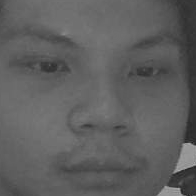
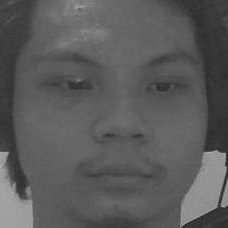
main part is done

diff --git a/demo/gui.py b/demo/gui.py
@@ -1,3 +1,4 @@
+from datetime import datetime
 from tkinter import *
 from tkinter import messagebox
 import mysql.connector
@@ -7,9 +8,16 @@ import threading
 import numpy as np
 import cv2 
 import sys
-import tkinter
 from PIL import Image,ImageTk
 import time
+import os
+import face_recognition
+import random
+import string
+import smtplib
+from email.mime.text import MIMEText
+from email.mime.multipart import MIMEMultipart
+
 
 mydb = mysql.connector.connect(
   host="localhost",
@@ -24,7 +32,8 @@ passwordE = ''
 teacher = ''
 temail = ''
 Class = ''
-
+todaydate = datetime.now().strftime('%d_%B_%Y') 
+ 
 
 def inputcheck():
 
@@ -50,8 +59,11 @@ def inputcheck():
         lock.release()
 
         
-
-
+def createdatabaseattendance():
+    try:
+        sql.execute(f"create table {todaydate}_{Class} (name varchar(30), time varchar(30), late boolean);")
+    except:
+        pass
 
 
 #taking data from database
@@ -110,6 +122,7 @@ def login():
     if alert == False:
         root2.destroy()
         t2.kill()
+        createdatabaseattendance()
         main()
 
     
@@ -182,10 +195,183 @@ def main():
     root.mainloop()
 
 
+
+def infoo():
+    messagebox.showinfo("Information", "Camera will close 5 seconds after it opens! Look onto the camera once its opened!")
+
+def resetvalue():
+    global name
+    messagebox.showinfo("Attendance Updated", "your attendance has been updated! Thank you for your attendance")
+    name = ''
+    main()
+
+def updatedatabase():
+    currtime = datetime.now().strftime("%H:%M:%S")
+    currtime2 = datetime.now()
+    latetime = currtime2.replace(hour = 7, minute = 30, second = 0)
+    late = False
+    if currtime2 > latetime:
+        late = True
+    sql.execute(f"insert into {todaydate}_{Class} Values ('{name}', '{currtime}', {late});")
+    late = False
+    sendconfimation()
+    
+def sendconfimation():
+    sql.execute(f"select email from {Class} where fullname = '{name}';")
+    result = sql.fetchall()
+    revemail = ''
+    for i in result:
+        revemail = i[0]
+
+    email = "pythonbot123@outlook.com" #sender email
+    password = "TanMichaelOlsen2006" #sender email password
+    receiver = revemail #receiver email 
+    server = smtplib.SMTP('smtp.office365.com', 587)
+    server.ehlo()
+    server.starttls()
+    server.login(email, password)
+
+    
+
+    msg = MIMEMultipart()
+    msg['Subject'] = "Attendance Confimation"
+    msg['To'] = receiver
+    msg['From'] = email
+    body = f"Hello {name}! Your attendance has been succesfully taken! if your teacher marks you absent, you can show this email as a prove that you are present. \n Attendance Date {datetime.now().strftime('%d %B %Y %H:%M:%S')} \n please contact the developers if there are errors on the program."
+    msg.attach(MIMEText(body))
+
+    tobesend = msg.as_string()
+    server.sendmail(email, receiver, tobesend)
+    server.quit()
+    resetvalue()
+
+
+def authentication():
+    global root5
+    global message2
+    code2 = ''
+    global count
+    count = 5
+
+    def sendcode(text):
+        print(Class)
+        sql.execute(f"select email from {Class} where fullname = '{name}';")
+        result = sql.fetchall()
+        revemail = ''
+        for i in result:
+            revemail = i[0]
+
+        email = "pythonbot123@outlook.com" #sender email
+        password = "TanMichaelOlsen2006" #sender email password
+        receiver = revemail #receiver email 
+        server = smtplib.SMTP('smtp.office365.com', 587)
+        server.ehlo()
+        server.starttls()
+        server.login(email, password)
+
+        
+
+        msg = MIMEMultipart()
+        msg['Subject'] = "Attendance Code"
+        msg['To'] = receiver
+        msg['From'] = email
+        body = f"Hello {name}! Here is your attendence code. {text}"
+        msg.attach(MIMEText(body))
+
+        tobesend = msg.as_string()
+        server.sendmail(email, receiver, tobesend)
+        server.quit()
+
+
+    def valuecompare():
+        global code2
+        global count 
+        global message2
+        code2 = str(entrybox.get())
+        messageRL = Label(root5, text="wrong verification code! please try again", fg='red')
+
+        if code2 != code:
+            count = count -1
+            messageRL.grid(row=5, column=0, columnspan=2)
+            message2.config(text=f"Verification Attemp(s): {count}")
+        if code == code2:
+            root5.destroy()
+            updatedatabase()
+
+            #continue here
+        if count == 0:
+            count = 5
+            message2.config(text= f"Verification Attemp(s): {count}")
+            messageRL.config(text = "                                                                      ")
+            messagebox.showwarning("WARNING", "You have used all your verification attemp! A new code will be sent to you, please use this new code to verify.")
+            generate()
+
+            
+            
+    def generate():
+        global code
+        a = string.ascii_letters
+        b = string.digits
+        letters = []
+        for i in a:
+            letters.append(i)
+        for i in b:
+            letters.append(i)
+
+        code = random.choices(letters, k = 6)
+        code = ''.join(code)
+        sendcode(code)
+
+    generate()
+    #widgets
+    root5 = Tk()
+    authL = Label(root5, text = "AUTHENTHICATION", font=('arial', 25))
+    message1 = Label(root5, text = "Please enter your code sent to your email:")
+    message2 = Label(root5, text = f"Code Attemp(s): {count}")
+    entrybox = Entry(root5, width = 40, borderwidth= 5)
+    submitB = Button(root5, text = "Submit", width = 15, height= 5,command= valuecompare)
+
+    authL.grid(row = 0, column = 0)
+    message1.grid(row =1, column= 0)    
+    message2.grid(row =2, column=0)
+    entrybox.grid(row = 3 , columnspan = 2 )
+    submitB.grid(row = 4, column = 0, columnspan= 2)
+
+    
+def facerecogg():
+    global name
+    # folder path
+    dir_path = r'C:\\programming\\python\\CAS\\me'
+
+    # list file and directories
+    res = os.listdir(dir_path)
+    name = ""
+    for i in res:
+        img = cv2.imread("C:\\Users\\molse\\OneDrive\\Dokumen\\GitHub\\CAS-face-recog\\image2.png") #image 1 to be compare, change the string varibale to ur pic file classide
+        rgb_img = cv2.cvtColor(img, cv2.COLOR_BGR2RGB)
+        img_encoding = face_recognition.face_encodings(rgb_img)[0]
+
+
+        img2 = cv2.imread(f"C:/programming/python/CAS/me/{i}")
+        print("here1")
+        rgb_img2 = cv2.cvtColor(img2, cv2.COLOR_BGR2RGB) #image 2 to be compare, change string variable to ur 2nd pic file classide
+        img_encoding2 = face_recognition.face_encodings(rgb_img2)[0]
+        print("here2")
+
+        result = face_recognition.compare_faces([img_encoding], img_encoding2)
+        print(type(result[0]))
+        if result[0] == True:
+            print("Succesful")
+            name = i.split(".png")
+            name = name[0]
+            break
+    authentication()
+        
+
 def facecam():
     root3.destroy()
     root.destroy()
-
+    infoo()
 #this is a face detection pg, it will detect ur face and capture a pic of ur face 
 
     cap = cv2.VideoCapture(0)
@@ -194,6 +380,8 @@ def facecam():
     root4 = Tk()
     camera1 = Label(root4)
     camera1.pack()
+    
+
 
     countdown = time.time() +5
 
@@ -218,9 +406,10 @@ def facecam():
             camera1.update()
 
         if time.time() >= countdown:
-            print("here")
+            #print("here")
             cv2.imwrite("image2.png", roi_grey) #string variable inside is the file classide of ur capture face
             root4.destroy()
+            t2.kill()
             break
         root4.update()
 
@@ -228,7 +417,8 @@ def facecam():
     root4.mainloop()
 
     cap.release()
-    cv2.destroyAllWindows()  
+    cv2.destroyAllWindows()
+    facerecogg()  
 
 
 def face():

diff --git a/demo/face recognition.py b/demo/face recognition.py
@@ -3,7 +3,7 @@ import face_recognition
 
 #this is a face recognition pg, it will compare two pics and tell whether the face in the 2 pics are similar
 
-img = cv2.imread("image.png") #image 1 to be compare, change the string varibale to ur pic file classide
+img = cv2.imread("C:\\Users\\molse\\OneDrive\\Dokumen\\GitHub\\CAS-face-recog\\image2.png") #image 1 to be compare, change the string varibale to ur pic file classide
 rgb_img = cv2.cvtColor(img, cv2.COLOR_BGR2RGB)
 img_encoding = face_recognition.face_encodings(rgb_img)[0]
 

diff --git a/try2.py b/try2.py
@@ -1,6 +1,7 @@
-import time
-count = time.time() +5
+from datetime import datetime
 
-while True:
-    if time.time() >= count:
-        print("he;;")
+currtime = datetime.now()
+latetime = currtime.replace(hour = 7, minute = 30, second = 0, microsecond =0)
+late = False
+if currtime > latetime:
+    print("late")
